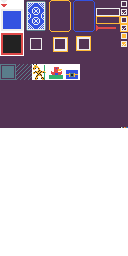
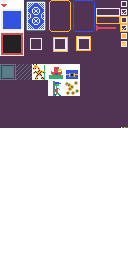
add more npc and item variants

Changed region(s): [[0.375, 0.3125, 0.625, 0.375]]

diff --git a/libs/config/src/config.rs b/libs/config/src/config.rs
@@ -123,6 +123,26 @@ static ENGINE: LazyLock<Engine> = LazyLock::new(|| {
 
     add_module!(entity_flags = entity_flags_string);
 
+    use game::to_tile::TILES_PER_ROW;
+
+    // Rhai not allowing you to access consts outside the fucntion scope withotu using `function_name!` is annoying.
+    let default_spritesheet_string = format!(r#"
+        private fn tile_sprite_n_at_offset(n, offset) {{
+            const TILES_PER_ROW = {TILES_PER_ROW};
+            n * TILES_PER_ROW + offset
+        }}
+
+        fn mob(n) {{
+            tile_sprite_n_at_offset(n, 3)
+        }}
+
+        fn item(n) {{
+            tile_sprite_n_at_offset(n, 4)
+        }}
+    "#);
+
+    add_module!(default_spritesheet = default_spritesheet_string);
+
     engine.set_module_resolver(resolver);
 
     engine
@@ -130,7 +150,24 @@ static ENGINE: LazyLock<Engine> = LazyLock::new(|| {
 
 pub fn parse(code: &str) -> Result<Config, Error> {
     use models::{DefId, Speech};
-    use game::{EntityDef, config::{EntityDefFlags}};
+    use game::{EntityDef};
+
+    macro_rules! get_int {
+        ($map: expr, $key: expr, $parent_key: expr) => {
+            {
+                let key = $key;
+                let parent_key = $parent_key;
+                $map.get(key)
+                    .ok_or(Error::FieldMissing{ key, parent_key, })?
+                    .as_int().map_err(|got| Error::TypeMismatch{ key: parent_key, expected: "int", got })?
+                    .try_into().map_err(|error| Error::SizeError {
+                        key,
+                        parent_key,
+                        error,
+                    })?
+            }
+        }
+    }
 
     let map: rhai::Map = ENGINE.eval(code)?;
 
@@ -157,17 +194,7 @@ pub fn parse(code: &str) -> Result<Config, Error> {
         let segment = segments[i]
             .as_map_ref().map_err(|got| Error::TypeMismatch{ key: parent_key, expected: "map", got })?;
 
-        let width = {
-            let key = "width";
-            segment.get(key)
-                .ok_or(Error::FieldMissing{ key, parent_key, })?
-                .as_int().map_err(|got| Error::TypeMismatch{ key: parent_key, expected: "int", got })?
-                .try_into().map_err(|error| Error::SizeError {
-                    key,
-                    parent_key,
-                    error,
-                })?
-        };
+        let width = get_int!(segment, "width", parent_key);
 
         let tiles = {
             let key = "tiles";
@@ -207,32 +234,22 @@ pub fn parse(code: &str) -> Result<Config, Error> {
         let entity = entities[usize::from(id)]
             .as_map_ref().map_err(|got| Error::TypeMismatch{ key: parent_key, expected: "map", got })?;
 
-        let flags = {
-            let key = "flags";
-            let flags: EntityDefFlags = entity.get(key)
-                .ok_or(Error::FieldMissing{ key, parent_key, })?
-                .as_int().map_err(|got| Error::TypeMismatch{ key: parent_key, expected: "int", got })?
-                .try_into().map_err(|error| Error::SizeError {
-                    key,
-                    parent_key,
-                    error,
-                })?;
+        let flags = get_int!(entity, "flags", parent_key);
 
-            flags
-        };
+        let tile_sprite = get_int!(entity, "tile_sprite", parent_key);
 
         let speeches = 'speeches: {
             let key = "speeches";
-            let raw_entities = match entity.get(key) {
+            let raw_speeches = match entity.get(key) {
                 None => break 'speeches vec![],
                 Some(dynamic) => dynamic
                     .as_array_ref().map_err(|got| Error::TypeMismatch{ key: parent_key, expected: "array", got })?
             };
 
-            let mut speeches = Vec::with_capacity(raw_entities.len());
+            let mut speeches = Vec::with_capacity(raw_speeches.len());
 
-            for i in 0..raw_entities.len() {
-                let text = raw_entities[i].clone()
+            for i in 0..raw_speeches.len() {
+                let text = raw_speeches[i].clone()
                     .into_string().map_err(|got| Error::TypeMismatch{ key: parent_key, expected: "string", got })?;
 
                 speeches.push(Speech {
@@ -247,6 +264,7 @@ pub fn parse(code: &str) -> Result<Config, Error> {
             flags,
             speeches,
             id,
+            tile_sprite,
         });
     }
 

diff --git a/libs/game/src/game.rs b/libs/game/src/game.rs
@@ -116,7 +116,7 @@ pub mod to_tile;
 
 pub mod config {
     use platform_types::{vec1::{Vec1}};
-    use models::{DefId, SegmentWidth, Speech};
+    use models::{DefId, SegmentWidth, Speech, TileSprite};
     pub type TileFlags = u32;
 
     macro_rules! flags_def {
@@ -204,23 +204,18 @@ pub mod config {
         ("COLLECTABLE", COLLECTABLE),
     ];
 
-    #[derive(Clone)]
+    #[derive(Clone, Debug)]
     pub struct EntityDef {        
         pub speeches: Vec<Speech>,
         pub id: DefId,
         pub flags: EntityDefFlags,
+        pub tile_sprite: TileSprite,
     }
 }
 pub use config::{Config, EntityDef, EntityDefFlags, TileFlags, COLLECTABLE};
 
 pub fn to_entity(def: &EntityDef, x: X, y: Y) -> Entity {
-    let sprite = if def.flags & COLLECTABLE == COLLECTABLE {
-        models::ITEM_SPRITE
-    } else {
-        models::NPC_SPRITE
-    };
-
-    Entity::new(x, y, sprite, def.id)
+    Entity::new(x, y, def.tile_sprite, def.id)
 }
 
 mod random {
@@ -622,11 +617,14 @@ impl State {
 
         let speeches = Speeches::new(speeches_lists);
 
-        if let Some(npc_xy) = random::tile_matching_flags_besides(
+        let mut placed_already = Vec::with_capacity(16);
+        placed_already.push(p_xy);
+
+        while let Some(npc_xy) = random::tile_matching_flags_besides(
             &mut rng,
             &config_segment,
             ITEM_START,
-            &[p_xy],
+            &placed_already,
         ) {
             // FIXME: Actual logic to keep things solvable.
 
@@ -635,21 +633,25 @@ impl State {
                     first_segment.id,
                     to_entity(mob_def, npc_xy.x, npc_xy.y),
                 );
+                placed_already.push(npc_xy);
 
                 // TODO? probably combine all these option checks into one match?
                 if let Some(item_xy) = random::tile_matching_flags_besides(
                     &mut rng,
                     &config_segment,
                     NPC_START,
-                    &[p_xy, npc_xy],
+                    &placed_already,
                 ) {
                     if let Some(item_def) = item_defs.pop() {
                         world.items.insert(
                             first_segment.id,
                             to_entity(item_def, item_xy.x, item_xy.y),
                         );
+                        placed_already.push(item_xy);
                     }
                 }
+            } else {
+                break
             }
         }
 
@@ -743,7 +745,7 @@ impl State {
             return
         };
 
-        if models::is_npc(mob) {
+        if self.speeches.get(mob.def_id).is_some() {
             self.mode = Mode::Talking(TalkingState::new(key));
             return
         }

diff --git a/libs/app/src/app.rs b/libs/app/src/app.rs
@@ -69,6 +69,8 @@ impl State {
         const MOB = 0;
         const ITEM = EF::COLLECTABLE;
         
+        import "default_spritesheet" as DS;
+        
         #{
             segments: [
                 #{
@@ -88,10 +90,22 @@ impl State {
                 #{
                     flags: MOB,
                     speeches: [ "hey can you get me something that's at least probably cool?" ],
+                    tile_sprite: DS::mob(0),
                 },
                 #{
                     flags: ITEM,
                     inventory_description: [ "a chest, probably with something cool in it.", "can't seem to open it, so it'll stay at least probably cool forever." ],
+                    tile_sprite: DS::item(0),
+                },
+                #{
+                    flags: MOB,
+                    speeches: [ "I lost my bayer-dollars! Can you help me find them?", "I don't know where I lost them. I'm looking over here because the light is better." ],
+                    tile_sprite: DS::mob(1),
+                },
+                #{
+                    flags: ITEM,
+                    inventory_description: [ "some bayer-dollars. you can tell because of the pattern in the middle." ],
+                    tile_sprite: DS::item(1),
                 },
             ],
         }

diff --git a/libs/game/src/to_tile.rs b/libs/game/src/to_tile.rs
@@ -29,10 +29,12 @@ pub fn center(xy: XY) -> unscaled::XY {
     min_corner(xy) + CENTER_OFFSET
 }
 
+pub const TILES_PER_ROW: sprite::Inner = 8;
+
 pub fn sprite_xy(tile_sprite: TileSprite) -> sprite::XY {
     sprite::XY {
-        x: sprite::X(tile_sprite as sprite::Inner * TILE_W.get()),
-        y: TILES_Y,
+        x: sprite::X(0) + sprite::W(tile_sprite as sprite::Inner % TILES_PER_ROW) * TILE_W.get(),
+        y: TILES_Y + sprite::H(tile_sprite as sprite::Inner / TILES_PER_ROW) * TILE_H.get(),
     }
 }
 

diff --git a/libs/models/src/models.rs b/libs/models/src/models.rs
@@ -57,10 +57,6 @@ impl Entity {
     }
 }
 
-pub fn is_npc(entity: &Entity) -> bool {
-    entity.sprite == NPC_SPRITE
-}
-
 /// Returns a phrase like "a thing" or "an entity".
 pub fn entity_article_phrase(entity: &Entity) -> &str {
     match entity.sprite {
